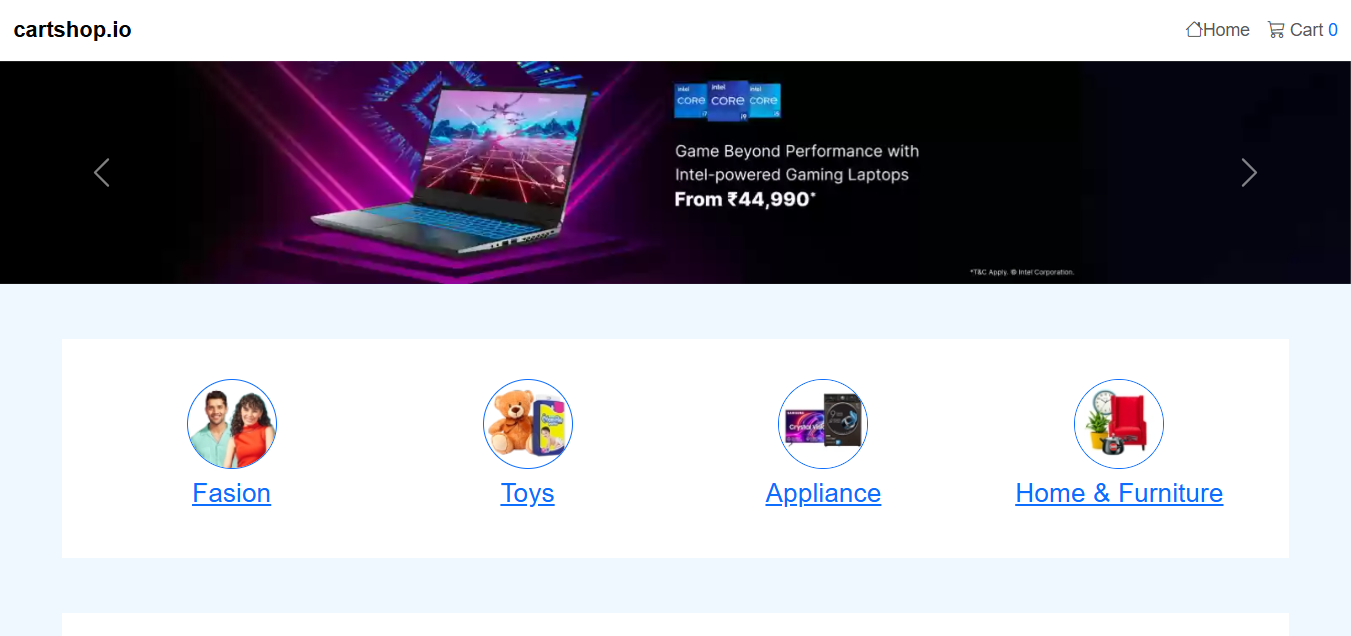
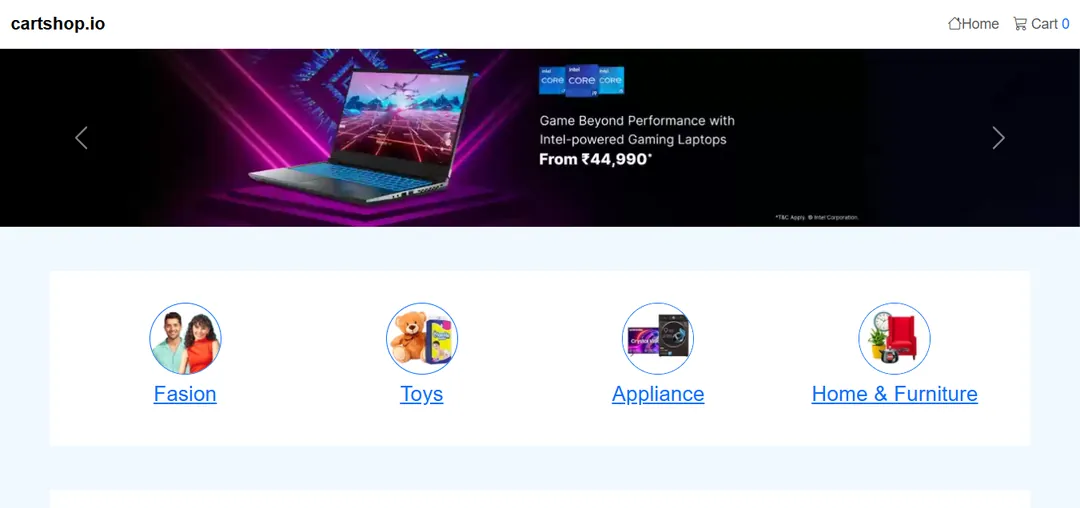
enhance performance

diff --git a/index.html b/index.html
@@ -16,9 +16,16 @@
 <link rel="icon" type="image/svg+xml" href="assets/favicon.svg">
 <link rel="preconnect" href="https://fonts.googleapis.com">
 <link rel="preconnect" href="https://fonts.gstatic.com" crossorigin>
-<link href="https://fonts.googleapis.com/css2?family=Bricolage+Grotesque:opsz,wght@12..96,400..800&family=Figtree:wght@400..600&family=JetBrains+Mono:wght@400..500&display=swap" rel="stylesheet">
+<link rel="preconnect" href="https://cdnjs.cloudflare.com" crossorigin>
 <link rel="stylesheet" href="style.css">
-<link rel="stylesheet" href="https://cdnjs.cloudflare.com/ajax/libs/font-awesome/6.5.2/css/all.min.css">
+
+<!-- Non-critical: fonts and icons load off the critical path so they never block first paint -->
+<link rel="preload" as="style" href="https://fonts.googleapis.com/css2?family=Bricolage+Grotesque:opsz,wght@12..96,400..800&family=Figtree:wght@400..600&family=JetBrains+Mono:wght@400..500&display=swap" onload="this.onload=null;this.rel='stylesheet'">
+<link rel="preload" as="style" href="https://cdnjs.cloudflare.com/ajax/libs/font-awesome/6.5.2/css/all.min.css" onload="this.onload=null;this.rel='stylesheet'">
+<noscript>
+  <link rel="stylesheet" href="https://fonts.googleapis.com/css2?family=Bricolage+Grotesque:opsz,wght@12..96,400..800&family=Figtree:wght@400..600&family=JetBrains+Mono:wght@400..500&display=swap">
+  <link rel="stylesheet" href="https://cdnjs.cloudflare.com/ajax/libs/font-awesome/6.5.2/css/all.min.css">
+</noscript>
 </head>
 
 <body>
@@ -106,7 +113,7 @@
     <div class="hero__me" data-anim="4">
       <div class="portrait">
         <div class="portrait__shot">
-          <img src="assets/myPhoto.webP" width="1080" height="1080"
+          <img src="assets/myPhoto.webP" width="760" height="760"
                alt="Belal Salah" fetchpriority="high" decoding="async">
         </div>
       </div>
@@ -640,9 +647,6 @@
   </div>
 </footer>
 
-<script src="https://cdn.jsdelivr.net/npm/gsap@3.12.5/dist/gsap.min.js" defer></script>
-<script src="https://cdn.jsdelivr.net/npm/gsap@3.12.5/dist/ScrollTrigger.min.js" defer></script>
-<script src="https://cdn.jsdelivr.net/npm/lenis@1.1.14/dist/lenis.min.js" defer></script>
 <script src="script.js" defer></script>
 </body>
 </html>

diff --git a/script.js b/script.js
@@ -124,8 +124,11 @@ if (looper) {
   });
 }
 
-/* ── Polish layer: smooth scroll + scroll-linked motion ── */
-if (window.gsap && window.ScrollTrigger && !reduce) {
+/* ── Polish layer: smooth scroll + scroll-linked motion ──
+   GSAP, ScrollTrigger and Lenis are fetched only after the page has
+   already painted, so ~130KB of third-party JS never competes with LCP. */
+function initPolish() {
+  if (!(window.gsap && window.ScrollTrigger) || reduce) return;
   gsap.registerPlugin(ScrollTrigger);
 
   if (window.Lenis) {
@@ -175,4 +178,24 @@ if (window.gsap && window.ScrollTrigger && !reduce) {
   }
 
   document.fonts?.ready.then(() => ScrollTrigger.refresh());
+}
+
+if (!reduce) {
+  const loadScript = src => new Promise((resolve, reject) => {
+    const s = document.createElement('script');
+    s.src = src;
+    s.onload = resolve;
+    s.onerror = reject;
+    document.body.appendChild(s);
+  });
+
+  const loadPolishLayer = () => {
+    loadScript('https://cdn.jsdelivr.net/npm/gsap@3.12.5/dist/gsap.min.js')
+      .then(() => loadScript('https://cdn.jsdelivr.net/npm/gsap@3.12.5/dist/ScrollTrigger.min.js'))
+      .then(() => loadScript('https://cdn.jsdelivr.net/npm/lenis@1.1.14/dist/lenis.min.js'))
+      .then(initPolish)
+      .catch(() => {});
+  };
+
+  addEventListener('load', () => setTimeout(loadPolishLayer), { once: true });
 }
